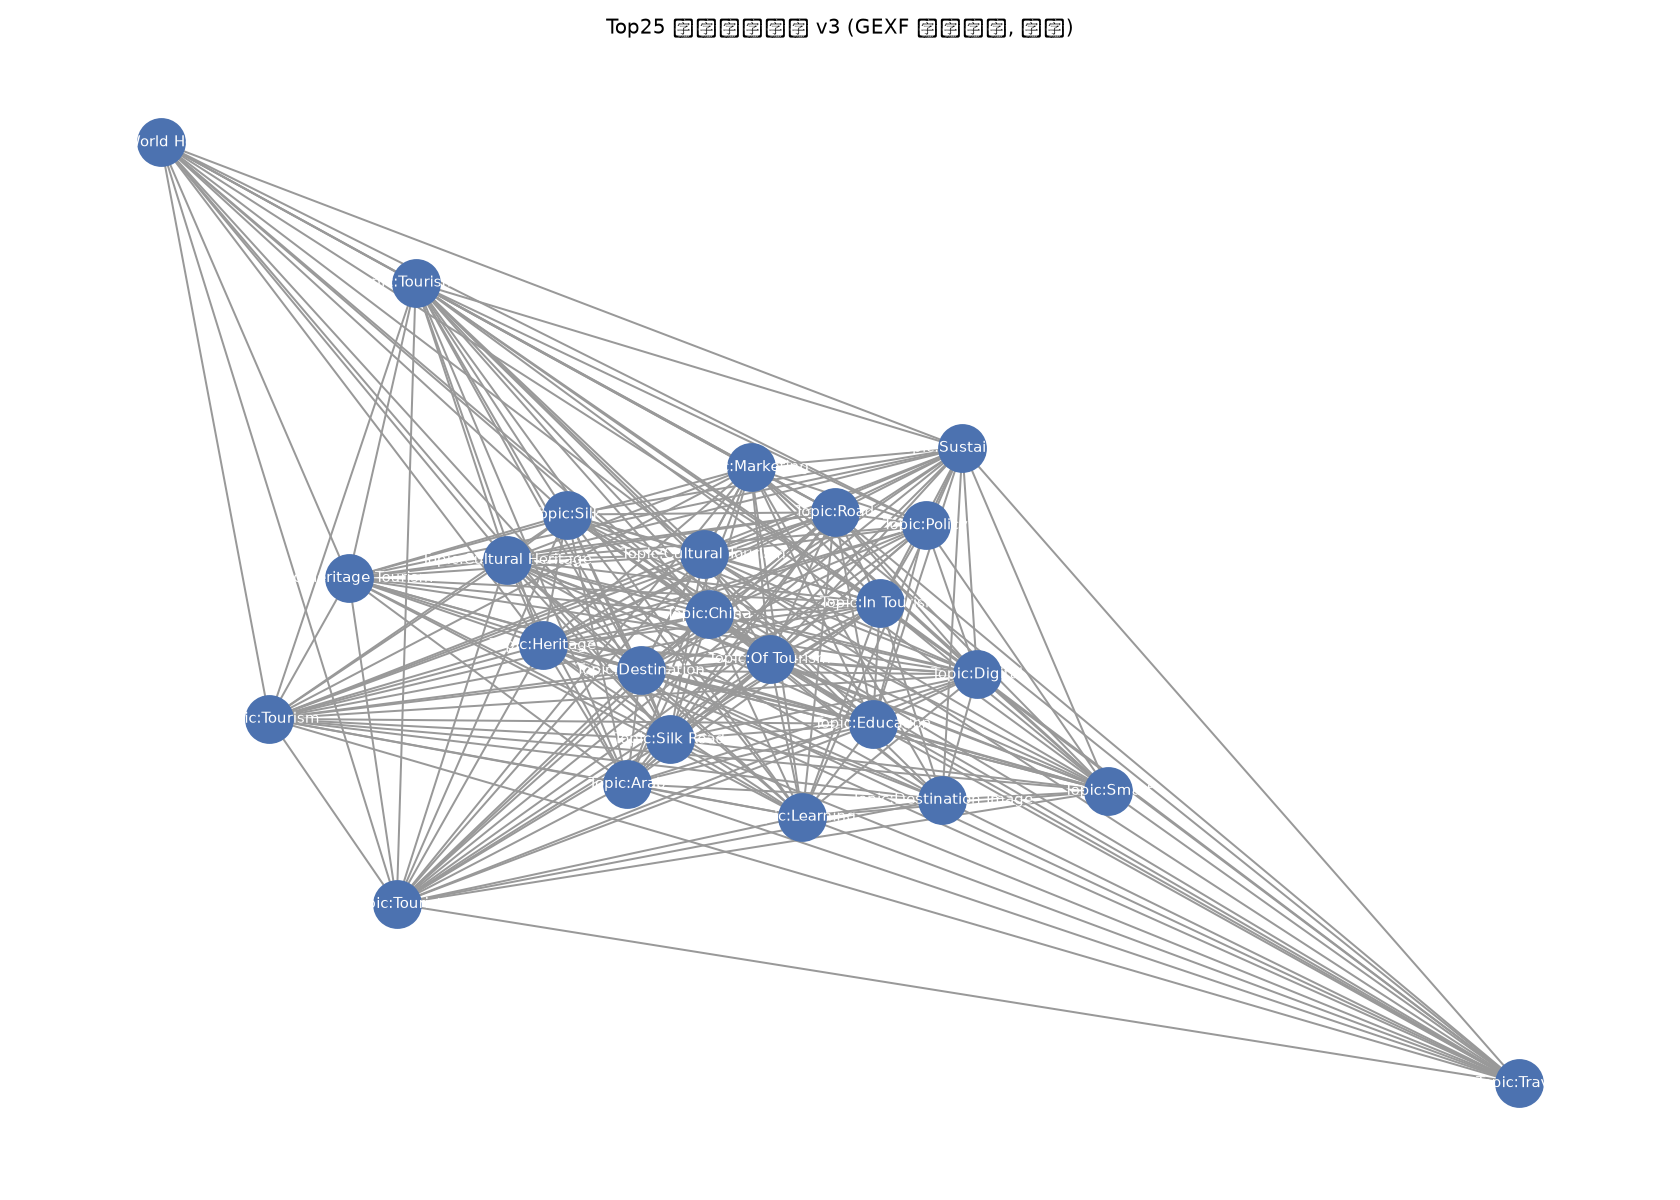
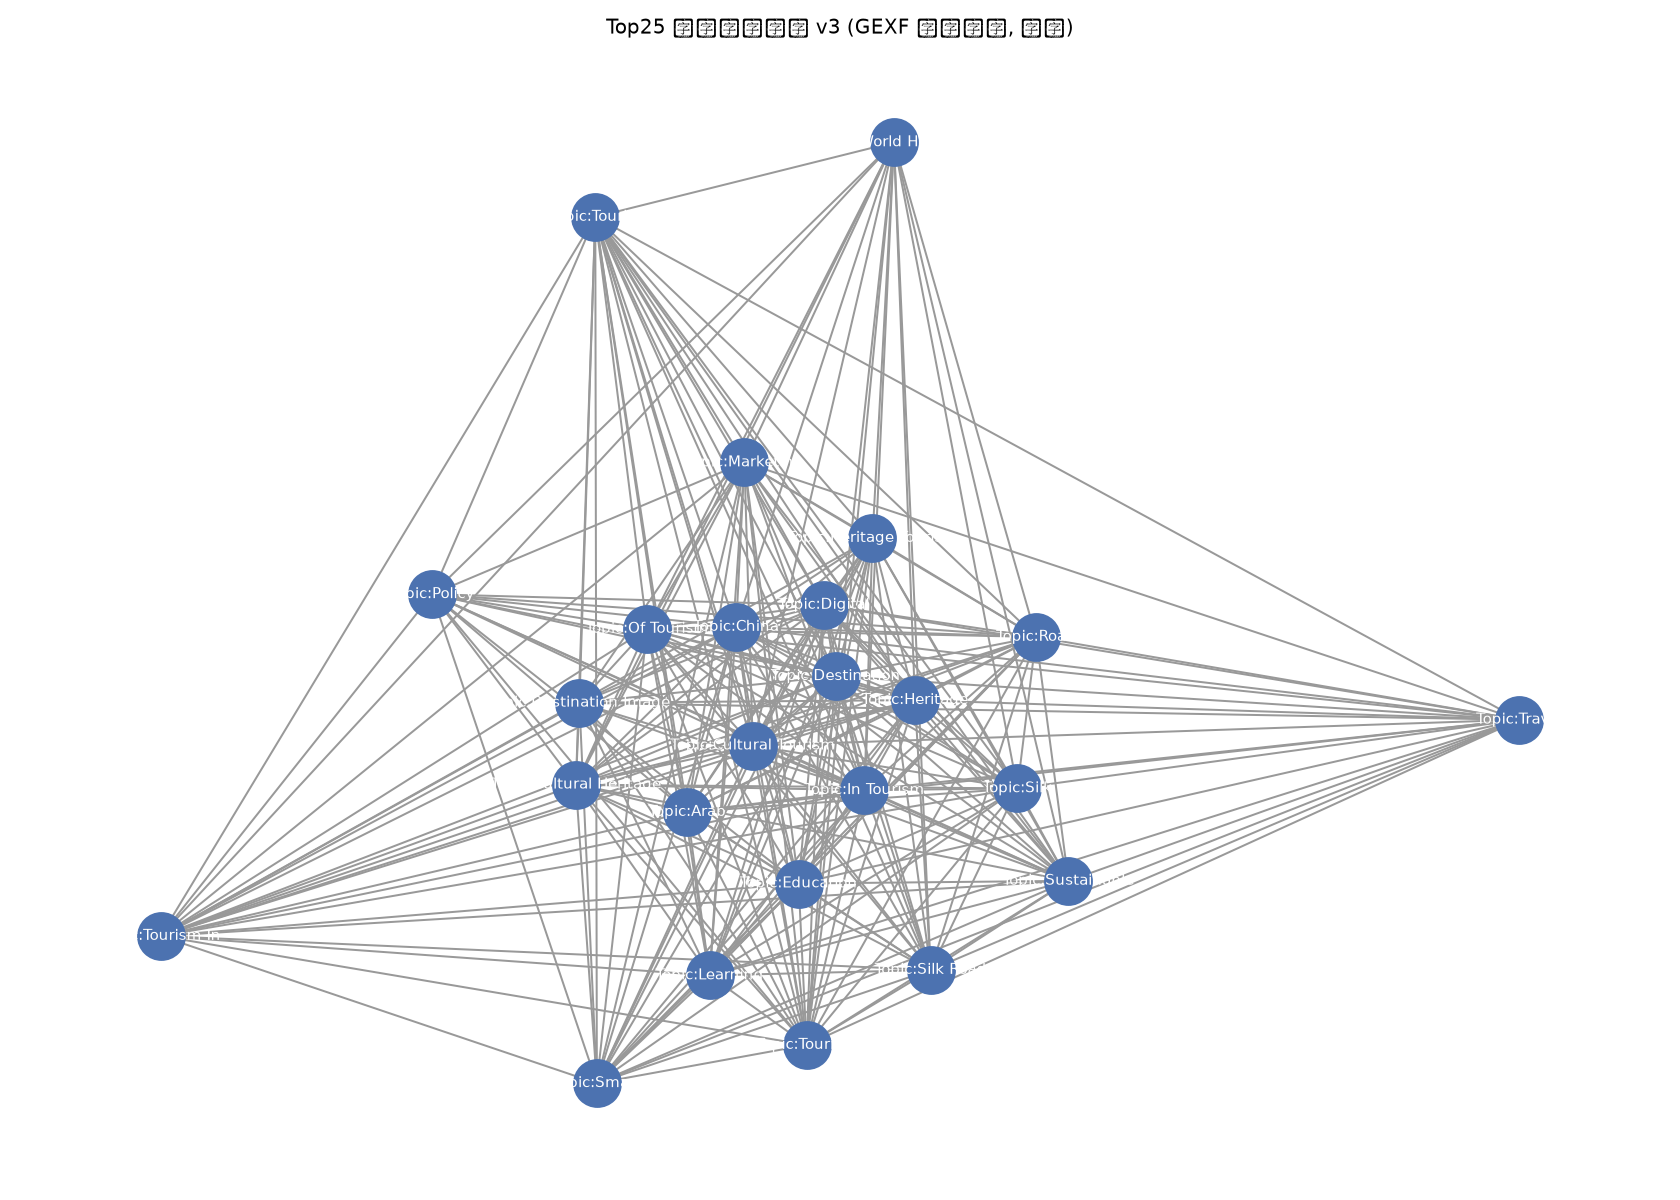
feat: Paper节点补language属性 终版重跑(快照v2/GEXF v3/audit/leak-check) 20260827

Changed region(s): [[0.0619, 0.0925, 0.9286, 0.925]]

diff --git a/rebuild_neo4j.py b/rebuild_neo4j.py
@@ -132,6 +132,7 @@ def main():
             "citations": p.get("citations", 0), "venue": venue,
             "authors": split_authors(p.get("authors", "")),
             "is_tourism": is_tourism,
+            "language": p.get("language", ""),
             "year_valid": year_valid,
         })
         topics = paper_topics.get(pid, set())
@@ -159,7 +160,7 @@ def main():
             UNWIND $rows AS r
             MERGE (p:Paper {id: r.pid})
             SET p.title = r.title, p.year = r.year, p.citations = r.citations,
-                p.is_tourism = r.is_tourism
+                p.is_tourism = r.is_tourism, p.language = r.language
             MERGE (v:Venue {name: r.venue})
             MERGE (p)-[:PUBLISHED_IN]->(v)
             FOREACH (a IN r.authors |
